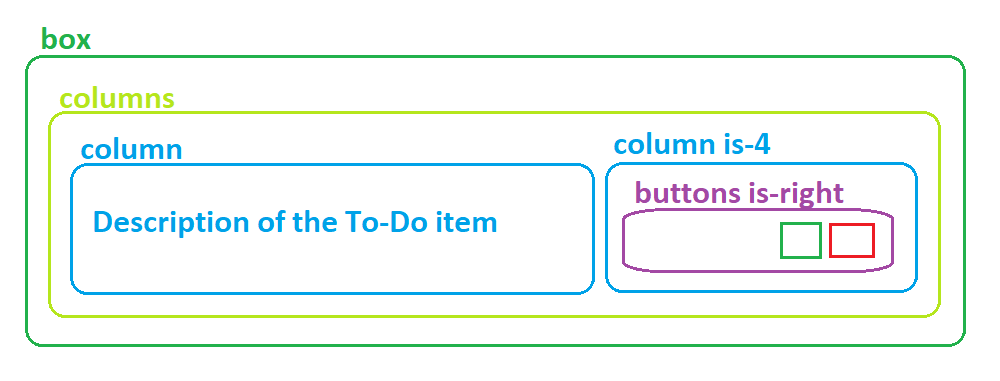
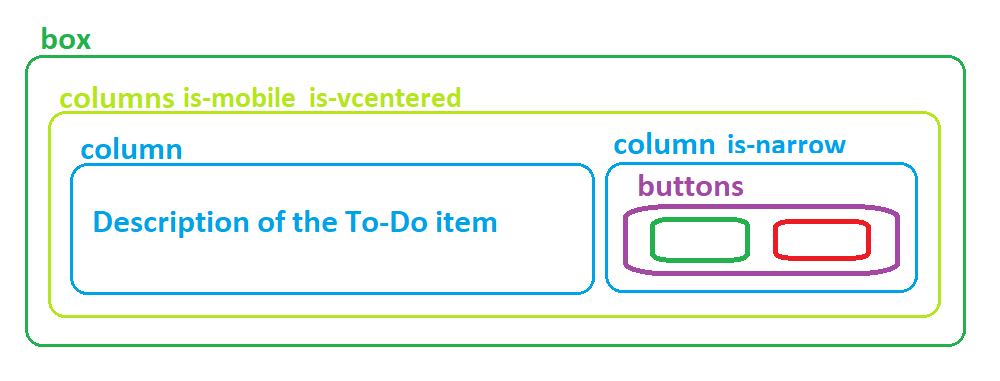
Update todo apps to use is-narrow instead of is-4

Changed region(s): [[0.62, 0.4619, 0.899, 0.7218], [0.186, 0.231, 0.465, 0.2887], [0.713, 0.3465, 0.868, 0.4042]]

diff --git a/chapters/elm/todo-app-part2.md b/chapters/elm/todo-app-part2.md
@@ -232,13 +232,16 @@ When working with a CSS framework like Bulma or similar, you will find yourself 
 ```fsharp
 let renderTodo (todo: Todo) (dispatch: Msg -> unit) =
   div [ "box" ] [
-    div [ "columns"; "is-mobile" ] [
-      div [ "column"; "subtitle"] [
-        Html.text todo.Description
+    div [ "columns"; "is-mobile"; "is-vcentered" ] [
+      div [ "column" ] [
+        Html.p [
+          prop.className "subtitle"
+          prop.text todo.Description
+        ]
       ]
 
-      div [ "column"; "is-4" ] [
-        div [ "buttons"; "is-right" ] [
+      div [ "column"; "is-narrow" ] [
+        div [ "buttons" ] [
           Html.button [
             prop.classList [ true, "button"; todo.Completed, "is-success"]
             prop.onClick (fun _ -> dispatch (ToggleCompleted todo.Id))
@@ -266,7 +269,7 @@ The layout can be visualized roughly as follows:
 
 > Yes, this is MS Paint.
 
-To understand how the columns work, please refer to [Bulma's docs](https://bulma.io/documentation/columns/) about columns. Basically I am separating the layout into two columns. By default the columns will share the space evenly: 50% each of the width for each column in case of two columns. But in the example above, I want the description to have more real estate, so I use the `is-4` class on the second column such that the columns will share the width in the ratio 8/12 to 4/12 or simply 2 : 1. The number 12 is not arbitrary, many CSS frameworks including Bulma divide the width of the page into 12 portions, so when we add `is-4` to one of the columns we are saying that the column takes 4/12 of the width.
+To understand how the columns work, please refer to [Bulma's docs](https://bulma.io/documentation/columns/) about columns. Basically I am separating the layout into two columns. By default the columns will share the space evenly: 50% each of the width for each column in case of two columns. But in the example above, I want the description to have more real estate, so I use the `is-narrow` class on the second column such that the second column only takes the spaces it needs for the two buttons and the first column will automatically take up the rest of the space for the To-Do item description.
 
 An interesting part of this layout is how the buttons are implemented:
 ```fsharp {highlight: [3, 11]}

diff --git a/chapters/elm/todo-app-part3.md b/chapters/elm/todo-app-part3.md
@@ -202,16 +202,19 @@ let renderEditForm (todoBeingEdited: TodoBeingEdited) (dispatch: Msg -> unit) =
   ]
 ```
 Then `renderTodo` is the same as from part 2 but with an addition of the button that turns the items into the edit mode:
-```fsharp {highlight: ['18-24']}
+```fsharp {highlight: ['21-27']}
 let renderTodo (todo: Todo) (dispatch: Msg -> unit) =
   div [ "box" ] [
-    div [ "columns"; "is-mobile" ] [
-      div [ "column"; "subtitle"] [
-        Html.text todo.Description
+    div [ "columns"; "is-mobile"; "is-vcentered" ] [
+      div [ "column" ] [
+        Html.p [
+          prop.className "subtitle"
+          prop.text todo.Description
+        ]
       ]
 
-      div [ "column"; "is-4" ] [
-        div [ "buttons"; "is-right" ] [
+      div [ "column"; "is-narrow" ] [
+        div [ "buttons" ] [
           Html.button [
             prop.classList [ true, "button"; todo.Completed, "is-success"]
             prop.onClick (fun _ -> dispatch (ToggleCompleted todo.Id))
